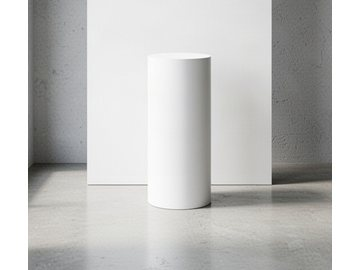
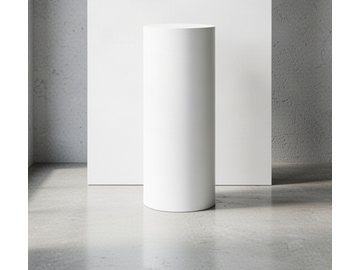
Plinth size ladder, bare gold hoop option, and fixed option examples
1. Cake plinths follow the customer's ladder: one is the XXL, two are XXL + XL,
   three are XXL + XL + L. Picking a count fills that set in (it used to default
   everything to XL), and the default config opens on the XXL. With three, the
   TALLEST now stands in the MIDDLE with the smaller two either side —
   calculateExactLayout reorders the sizes so the biggest lands on the centre
   position. The 3-plinth example is regenerated to match.

   The example also exposed a real bug: the scene inventory line was hard-coded
   to "one slim white cylindrical pedestal column", so a three-plinth scene came
   back with a single column however many the guide drew. It now states the
   count, and says the tallest is in the middle.

2. The light-up number example had the number standing ON a plinth. Regenerated
   with no plinth in the scene, so it stands on the floor as the product does.

3. The neon sign was unreadable in its example — a few pixels wide in a 360px
   tile. Regenerated without a plinth and cropped to the upper board, so the
   glowing script is legible.

4. The Balloon Ring gains a third dressing, "No balloons" — the bare gold metal
   hoop on its own — and all three now show a render of themselves in the
   picker instead of only a label.

   Two things had to change for the bare hoop to render at all. The hoop was
   drawn inside the garland dispatch, which is gated on balloonStyle !== "none",
[…]

diff --git a/lib/renderPrompts/buildLayoutRefEditPrompt.ts b/lib/renderPrompts/buildLayoutRefEditPrompt.ts
@@ -192,7 +192,13 @@ export function buildLayoutRefEditPrompt(
       // point of the setup, so the wording spends most of its words defending it.
       // 2026-09-09: two dressings now. "half" is the customer's own Instagram
       // style — a bare gold metal hoop with the garland on one side of it.
-      backdropDesc = sceneModel.balloonRingStyle === "half"
+      backdropDesc = sceneModel.balloonRingStyle === "none"
+        ? `one freestanding circular hoop about ${p.widthCm}cm across, standing upright on the floor: a slim ` +
+          `round GOLD METAL FRAME on a small flat base, bare polished tube all the way round with NO BALLOONS ` +
+          `on it anywhere. The CENTRE OF THE RING IS COMPLETELY OPEN and empty — the grey studio wall shows ` +
+          `straight through it. No backdrop board, no panel, no disc and no balloons of any kind, on the hoop ` +
+          `or anywhere else in the scene.`
+        : sceneModel.balloonRingStyle === "half"
         ? `one freestanding circular hoop about ${p.widthCm}cm across, standing upright on the floor: a slim ` +
           `round GOLD METAL FRAME, its bare polished tube clearly visible along the lower-left of the circle, ` +
           `with a dense organic balloon garland wrapped around the rest of it — up the left shoulder, over ` +
@@ -743,10 +749,13 @@ export function buildLayoutRefEditPrompt(
   // 2026-09-09: the bare gold hoop needs a front-loaded mention like every
   // other object on this pipeline — the mid-prompt description alone leaves
   // the render wrapping the whole circle in balloons.
-  const frontRingHalfLine = hasRingPanelInPrompt && sceneModel.balloonRingStyle === "half"
-    ? `The hoop is a slim GOLD METAL frame, bare and clearly visible along its lower-left, with balloons ` +
-      `wrapped around only the other half of it. `
-    : "";
+  const frontRingHalfLine = !hasRingPanelInPrompt ? ""
+    : sceneModel.balloonRingStyle === "none"
+      ? `The hoop is a bare slim GOLD METAL frame with NO balloons on it at all. `
+      : sceneModel.balloonRingStyle === "half"
+        ? `The hoop is a slim GOLD METAL frame, bare and clearly visible along its lower-left, with balloons ` +
+          `wrapped around only the other half of it. `
+        : "";
 
   const frontTripleArchLine = halfArchCount === 2
     ? `Exactly THREE boards, touching: a tall arch in the middle, and either side a HALF arch — one ` +
@@ -1446,8 +1455,23 @@ const cutoutClause = cutouts?.mode === "standees" && cutoutTotal > 0
 const setupTemplateId = inferSetupLayoutTemplateIdFromBackdropItems(sceneModel.panels);
 const setupTemplate   = setupTemplateId ? getSetupLayoutTemplate(setupTemplateId) : undefined;
 const hasGarland      = sceneModel.balloons.style !== "none";
+// 2026-09-09: the Balloon Ring catalog entry says the hoop is "built entirely
+// from balloons", which is true of the fully wrapped dressing and flatly wrong
+// for the other two. Left in, it beat both the front-loaded gold-hoop line and
+// the backdrop description: a "no balloons" ring still rendered as a fully
+// wrapped one.
+const setupPanelInstruction = setupTemplate
+  ? (hasRingPanelInPrompt && sceneModel.balloonRingStyle === "none"
+      ? `A single freestanding circular hoop standing on the floor — a slim bare gold metal frame with a ` +
+        `completely open empty centre and no balloons on it.`
+      : hasRingPanelInPrompt && sceneModel.balloonRingStyle === "half"
+        ? `A single freestanding circular hoop standing on the floor — a slim gold metal frame, bare along ` +
+          `its lower-left, with a balloon garland wrapped around the rest of it and a completely open empty centre.`
+        : setupTemplate.panelInstruction)
+  : "";
+
 const setupTemplateClause = setupTemplate
-  ? `Use the selected setup layout: ${setupTemplate.name}. ${setupTemplate.panelInstruction} ` +
+  ? `Use the selected setup layout: ${setupTemplate.name}. ${setupPanelInstruction} ` +
     (hasGarland
       ? `${setupTemplate.garlandInstruction} ` +
         `The garland must be a lush organic balloon garland with varied balloon sizes, layered clusters, ` +
@@ -1485,7 +1509,19 @@ const setupTemplateClause = setupTemplate
   if (plinth) {
     // "pedestal column", not "plinth", here too — the inventory is the first
     // line the model reads, and the squat-drum prior rides on that one word.
-    inventoryItems.push(`one slim white cylindrical pedestal column standing on the floor in front of the boards`);
+    // 2026-09-09: and it says HOW MANY. The line was hard-coded to "one", so a
+    // three-plinth scene came back with a single column no matter what the
+    // guide drew — the customer's 3-plinth example render showed one.
+    const nP = sceneModel.plinths.length;
+    inventoryItems.push(
+      nP >= 3
+        ? `THREE slim white cylindrical pedestal columns of different heights standing side by side on the ` +
+          `floor in front of the boards, the tallest one in the middle`
+        : nP === 2
+          ? `TWO slim white cylindrical pedestal columns of different heights standing side by side on the ` +
+            `floor in front of the boards`
+          : `one slim white cylindrical pedestal column standing on the floor in front of the boards`,
+    );
   }
   for (const i of textPanelIdx) {
     inventoryItems.push(`the words "${sceneModel.panels[i].text.value.trim()}" printed on the ${panelPositionLabel(i)}`);

diff --git a/lib/generateStructureSilhouette.ts b/lib/generateStructureSilhouette.ts
@@ -655,7 +655,7 @@ export function generateStructureSilhouette(
     numberLight?: { enabled: boolean; value: string };
     neonSign?: { enabled: boolean; text: string };
     /** Balloon Ring dressing — "half" leaves the gold hoop bare on one side. */
-    ringStyle?: "full" | "half";
+    ringStyle?: "full" | "half" | "none";
   },
 ): SilhouetteResult {
   const shimmerTileFill = shimmerColorHex ?? "#D8D8E4";
@@ -985,6 +985,26 @@ export function generateStructureSilhouette(
           / Math.max(1, (backdropItems[0]?.widthCm ?? 200) * 1.25),
       )
     : null;
+
+  // 2026-09-09: the gold hoop is drawn HERE, not inside the garland dispatch.
+  // The dispatch is gated on balloonStyle !== "none", so a bare hoop with no
+  // balloons produced an empty guide and the render invented a fully wrapped
+  // balloon ring instead of the metal frame that was asked for.
+  if (extras?.ringStyle === "half" || extras?.ringStyle === "none") {
+    const hp = layout.panels[0];
+    if (hp && (backdropItems[hp.idx]?.type ?? "") === "balloon_ring") {
+      const pxc = ringScenePxPerCm ?? ((hp.floorY - hp.apexY) / Math.max(1, backdropItems[hp.idx]?.heightCm ?? 200));
+      const hr  = ((backdropItems[hp.idx]?.widthCm ?? 200) / 2) * pxc;
+      // The bare hoop is the only object in its scene, so it is drawn thicker —
+      // a hairline circle on a white ground is the kind of faint marker this
+      // pipeline drops.
+      const hw  = Math.max(3, hr * (extras.ringStyle === "none" ? 0.045 : 0.028));
+      content.push(
+        `<circle cx="${hp.cx.toFixed(1)}" cy="${(hp.floorY - hr).toFixed(1)}" r="${hr.toFixed(1)}" ` +
+        `fill="none" stroke="#C9A227" stroke-width="${hw.toFixed(1)}"/>`,
+      );
+    }
+  }
 
   // v4: Individual balloon circles — no filled blob, organic circles follow right-side path.
   // Avoids vertical slab boundary that the filled blob created.
@@ -2304,17 +2324,13 @@ export function generateStructureSilhouette(
           // full circle: from upper-left, over the top, down the right and into
           // a pile at the bottom right.
           const ringHalf = extras?.ringStyle === "half";
+          const ringBare = extras?.ringStyle === "none";
           const angFrom = ringHalf ? (-175 * Math.PI) / 180 : 0;
           const angTo   = ringHalf ? (60 * Math.PI) / 180 : Math.PI * 2;
-          if (ringHalf) {
-            const hoopW = Math.max(3, ringR * 0.028);
-            content.push(
-              `<circle cx="${ringCx.toFixed(1)}" cy="${ringCy.toFixed(1)}" r="${ringR.toFixed(1)}" ` +
-              `fill="none" stroke="#C9A227" stroke-width="${hoopW.toFixed(1)}"/>`,
-            );
-          }
+          // The hoop itself is drawn earlier, outside this dispatch — see the
+          // ringStyle block above layout-panel drawing.
           ang = angFrom;
-          while (ang < angTo && ringGuard++ < 260) {
+          while (!ringBare && ang < angTo && ringGuard++ < 260) {
             const r1 = pickRing();
             // Offsets are >= 0 measured outward from the ring line, so the
             // opening stays clear.
@@ -2331,7 +2347,7 @@ export function generateStructureSilhouette(
           // The half-wrapped ring ends in a pile on the floor at the bottom
           // right, as in the reference — the garland runs off the hoop and
           // spreads out on the ground rather than stopping in mid-air.
-          if (ringHalf) {
+          if (ringHalf && !ringBare) {
             for (let i = 0; i < 18; i++) {
               const t  = Math.pow(rrnd(), 1.3);
               const ox = ringR * (0.30 + t * 0.95);

diff --git a/app/configure/page.tsx b/app/configure/page.tsx
@@ -1166,10 +1166,13 @@ function clearAllStandees() {
   function setGraphicStyle(style: GraphicStyle) {
     patchDecor({ backdropPrint: { ...print, graphicStyle: style } });
   }
+  // 2026-09-09: the customer set the ladder — one plinth is the XXL, two are
+  // XXL + XL, three are XXL + XL + L. Picking a count now fills in that set
+  // rather than defaulting everything to XL. The per-plinth buttons are still
+  // there, so any of the three sizes can still be chosen afterwards.
+  const PLINTH_LADDER: PlinthSize[] = ["large", "medium", "small"]; // XXL, XL, L
   function setPlinthCount(n: number) {
-    const sizes: PlinthSize[] = [...d.plinthSizes];
-    while (sizes.length < n) sizes.push("medium");
-    sizes.length = n;
+    const sizes: PlinthSize[] = PLINTH_LADDER.slice(0, n);
     patchDecor({ plinths: n, plinthSizes: sizes });
   }
   function setPlinthSize(i: number, size: PlinthSize) {
@@ -1465,14 +1468,25 @@ function clearAllStandees() {
              one side (the style in Blushy's own Instagram post). */
           <div style={{ marginBottom: 12 }}>
             <span style={{ fontSize: 11, fontWeight: 700, color: "#12162F", display: "block", marginBottom: 6 }}>Ring style</span>
-            <div style={{ display: "flex", flexWrap: "wrap", gap: 6 }}>
+            {/* 2026-09-09: each dressing shows a render of itself, so the
+                difference between a wrapped hoop and a bare gold one is
+                visible rather than described. */}
+            <div style={{ display: "grid", gridTemplateColumns: "repeat(auto-fit, minmax(140px, 1fr))", gap: 8 }}>
               {BALLOON_RING_STYLES.map((rs) => {
                 const active = (d.balloonRingStyle ?? "full") === rs.id;
                 return (
                   <button key={rs.id} type="button" onClick={() => patchDecor({ balloonRingStyle: rs.id })}
-                    style={{ textAlign: "left", padding: "6px 10px", borderRadius: 12, cursor: "pointer",
+                    style={{ textAlign: "left", padding: 8, borderRadius: 14, cursor: "pointer",
                       border: active ? `1.5px solid ${accent}` : "1.5px solid rgba(0,0,0,0.12)",
                       background: active ? accent + "12" : "white" }}>
+                    {/* eslint-disable-next-line @next/next/no-img-element */}
+                    <img
+                      src={`/option-samples/ring_${rs.id}.jpg`}
+                      alt={`${rs.label} balloon ring`}
+                      loading="lazy"
+                      style={{ width: "100%", aspectRatio: "4 / 3", objectFit: "cover", display: "block",
+                        borderRadius: 10, border: "1px solid #F3D7E1", background: "white", marginBottom: 6 }}
+                    />
                     <div style={{ fontSize: 11.5, fontWeight: 700, color: active ? accent : "#1A1A2E" }}>{rs.label}</div>
                     <div style={{ fontSize: 10, color: "#9A8E96" }}>{rs.desc}</div>
                   </button>

diff --git a/lib/config.ts b/lib/config.ts
@@ -249,7 +249,9 @@ export const PACKAGES: Package[] = [
       ],
       balloonStyle: "full",
       plinths: 1,
-      plinthSizes: ["medium"],
+      // 2026-09-09: one plinth is the XXL (see the PLINTH_LADDER in the
+      // configure page — 1 = XXL, 2 = XXL+XL, 3 = XXL+XL+L).
+      plinthSizes: ["large"],
       cutouts: { size: "none", position: "floor" },
       backdropPrint: { type: "none" },
       backdropText: { enabled: false, type: "birthday", name: "", customText: "", fontStyle: "script", color: "white", fontSize: 4, lineHeight: 140, verticalOffset: 30, horizontalOffset: 50, align: "center" },
@@ -311,11 +313,13 @@ export const PACKAGES: Package[] = [
 // product (see BACKDROP_SHAPES / setupLayoutCatalog.ts) but stay in this
 // union so old saved BackdropItem data still type-checks and can be
 // sanitized/remapped instead of crashing.
-export type BalloonRingStyleId = "full" | "half";
+export type BalloonRingStyleId = "full" | "half" | "none";
 
 export const BALLOON_RING_STYLES: { id: BalloonRingStyleId; label: string; desc: string }[] = [
   { id: "full", label: "Fully wrapped", desc: "Balloons all the way round the hoop" },
   { id: "half", label: "Half wrapped",  desc: "Bare gold metal hoop, balloons on one side" },
+  // 2026-09-09: the hoop on its own, no balloons at all.
+  { id: "none", label: "No balloons",   desc: "Bare gold metal hoop only" },
 ];
 
 export type BackdropShapeId =

diff --git a/lib/calculateExactLayout.ts b/lib/calculateExactLayout.ts
@@ -214,7 +214,21 @@ export function calculateExactLayout(
   const refHeightPx = refPanel ? (refPanel.floorY - refPanel.apexY) : canvasH * 0.7;
   const pxPerCm    = refHeightPx / maxHeightCm;
 
-  const plinths: PlinthLayout[] = plinthSizes.slice(0, plinthCount).map((size, i) => {
+  // 2026-09-09: the tallest plinth stands in the MIDDLE. The sizes arrive in
+  // descending order (XXL, XL, L), which would otherwise line them up as a
+  // staircase from the left; the customer wants the big one centre-stage with
+  // the smaller ones either side of it. Index 1 is the centre position in
+  // PLINTH_X_PCT, and the guide spaces them by index too.
+  const orderedPlinthSizes = (() => {
+    const src = plinthSizes.slice(0, plinthCount);
+    if (src.length < 3) return src;
+    const rank: Record<string, number> = { large: 3, medium: 2, small: 1 };
+    const desc = [...src].sort((a, b) => (rank[b] ?? 0) - (rank[a] ?? 0));
+    // biggest centre, second on the left, smallest on the right
+    return [desc[1], desc[0], ...desc.slice(2)];
+  })();
+
+  const plinths: PlinthLayout[] = orderedPlinthSizes.map((size, i) => {
     const dims = getPlinthDimensions(size);
     return {
       idx:        i,

diff --git a/lib/buildSceneModel.ts b/lib/buildSceneModel.ts
@@ -137,7 +137,7 @@ export interface SceneModel {
   /** Florals and greenery worked into the balloon garland. */
   garlandFlorals: boolean;
   /** How the balloon ring is dressed — see BalloonRingStyleId. */
-  balloonRingStyle: "full" | "half";
+  balloonRingStyle: "full" | "half" | "none";
   /** Illuminated marquee number standing beside the backdrop. */
   numberLight: NumberLight;
   /** Neon LED sign on the backdrop, or in a balloon ring's open centre. */
@@ -212,7 +212,8 @@ export function buildSceneModel(config: BuilderConfig): SceneModel {
     plinths,
     cutouts,
     garlandFlorals: d.garlandFlorals === true,
-    balloonRingStyle: d.balloonRingStyle === "half" ? "half" : "full",
+    balloonRingStyle: d.balloonRingStyle === "half" ? "half"
+      : d.balloonRingStyle === "none" ? "none" : "full",
     numberLight:    d.numberLight ?? { enabled: false, value: "1" },
     // 2026-09-08: the sign never lands on an open arch frame — there is no
     // board face for it to hang on. The option is hidden in the UI; this

diff --git a/app/api/generate-controlled-render/route.ts b/app/api/generate-controlled-render/route.ts
@@ -159,7 +159,7 @@ function isAuthOrBillingError(message: string | null): boolean {
 // process (sufficient for a single-instance/dev deployment — not a
 // distributed cache). Bump RENDER_CACHE_VERSION whenever a prompt/negative
 // change should invalidate previously cached (now-stale) renders.
-const RENDER_CACHE_VERSION = "triple-arch-180-200-garland-on-top-v78";
+const RENDER_CACHE_VERSION = "plinth-ladder-bare-hoop-v79";
 
 interface RenderCacheEntry {
   imageUrl: string;
